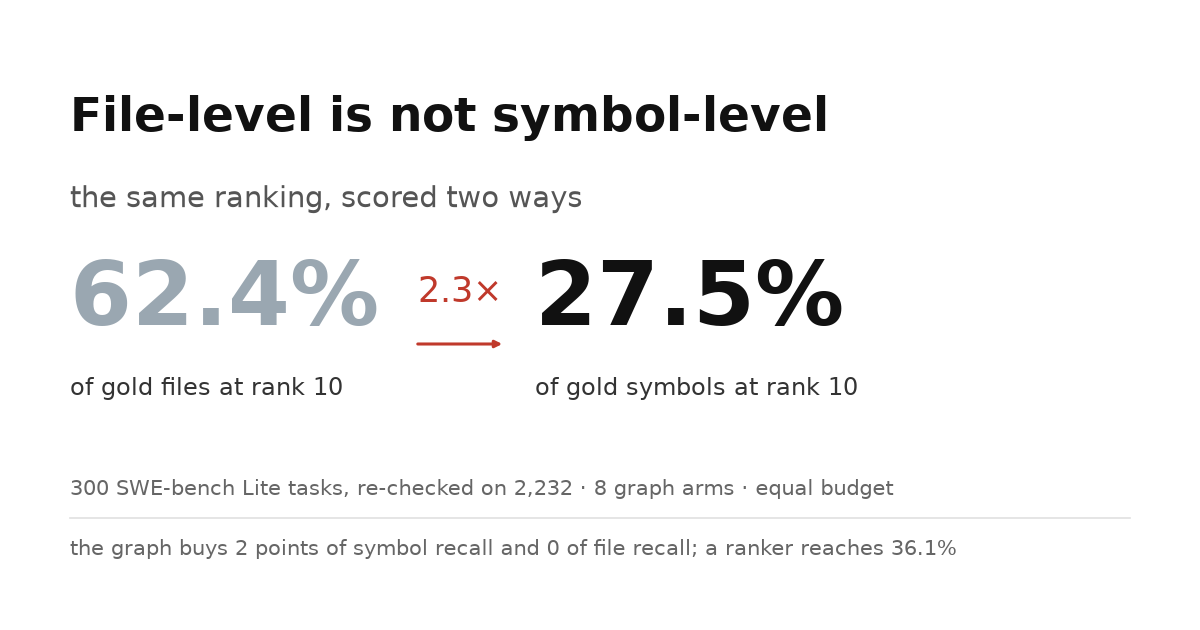
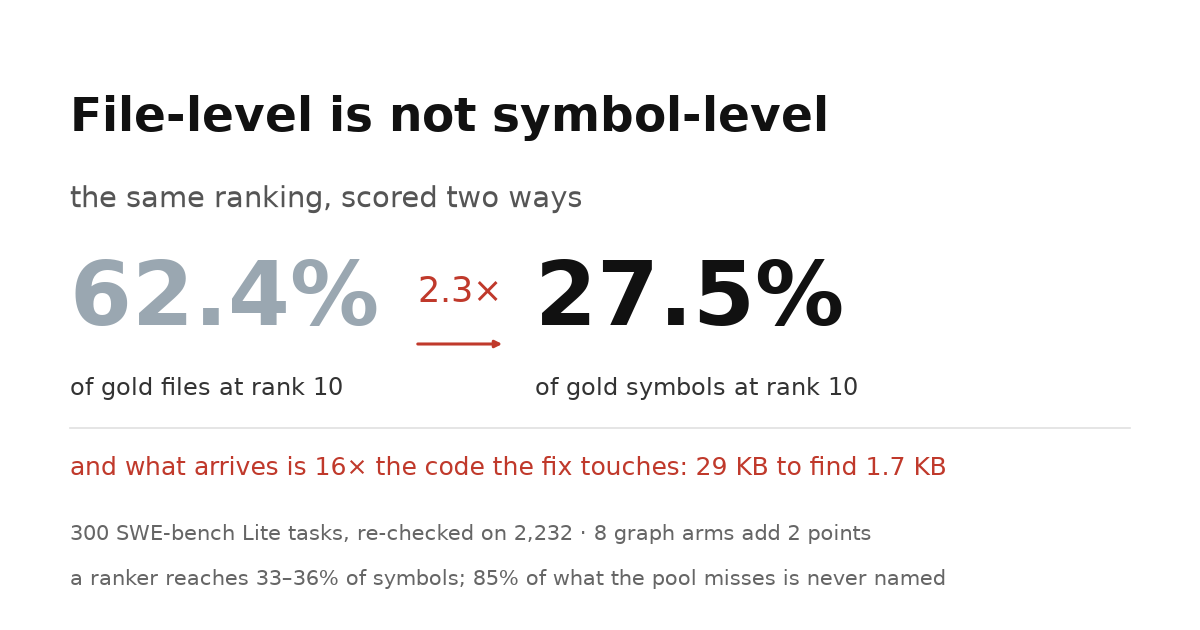
repair .gitignore: the data rule had been swallowed by a mangled comment
The comment corruption had merged 'data/*' into the line above it, so the
ignore rule was dead and 'git add -A' started staging every JSONL in data/.
Rewritten in plain UTF-8 with English comments so no encoding round-trip can
eat a rule again; exceptions kept, verified with check-ignore.

The thumbnail also moves: the card said 36.1%, the number this week's review
found ambiguous between scales, and now carries the 16x cost line instead.

Changed region(s): [[0.0617, 0.8143, 0.925, 0.9349], [0.0617, 0.7238, 0.8017, 0.7841], [0.0617, 0.6635, 0.925, 0.6937]]

diff --git a/tools/make_thumbnail.py b/tools/make_thumbnail.py
@@ -45,14 +45,17 @@ def main() -> int:
                   arrowprops=dict(arrowstyle="-|>", lw=2.2, color="#c0392b"))
     axes.text(4.6, 3.28, "2.3×", fontsize=25, color="#c0392b", ha="center")
 
-    axes.text(0.7, 1.35,
-              "300 SWE-bench Lite tasks, re-checked on 2,232 · 8 graph arms · equal budget",
+    axes.text(0.7, 1.55,
+              "and what arrives is 16× the code the fix touches: 29 KB to find 1.7 KB",
+              fontsize=18, color="#c0392b")
+    axes.text(0.7, 0.90,
+              "300 SWE-bench Lite tasks, re-checked on 2,232 · 8 graph arms add 2 points",
               fontsize=15, color="#666666")
-    axes.text(0.7, 0.75,
-              "the graph buys 2 points of symbol recall and 0 of file recall; a ranker reaches 36.1%",
+    axes.text(0.7, 0.45,
+              "a ranker reaches 33–36% of symbols; 85% of what the pool misses is never named",
               fontsize=15, color="#666666")
 
-    axes.plot([0.7, 11.3], [1.12, 1.12], color="#e0e0e0", lw=1.2)
+    axes.plot([0.7, 11.3], [2.02, 2.02], color="#e0e0e0", lw=1.2)
 
     out = ROOT / "paper" / "thumbnail.png"
     fig.savefig(out, dpi=100)
